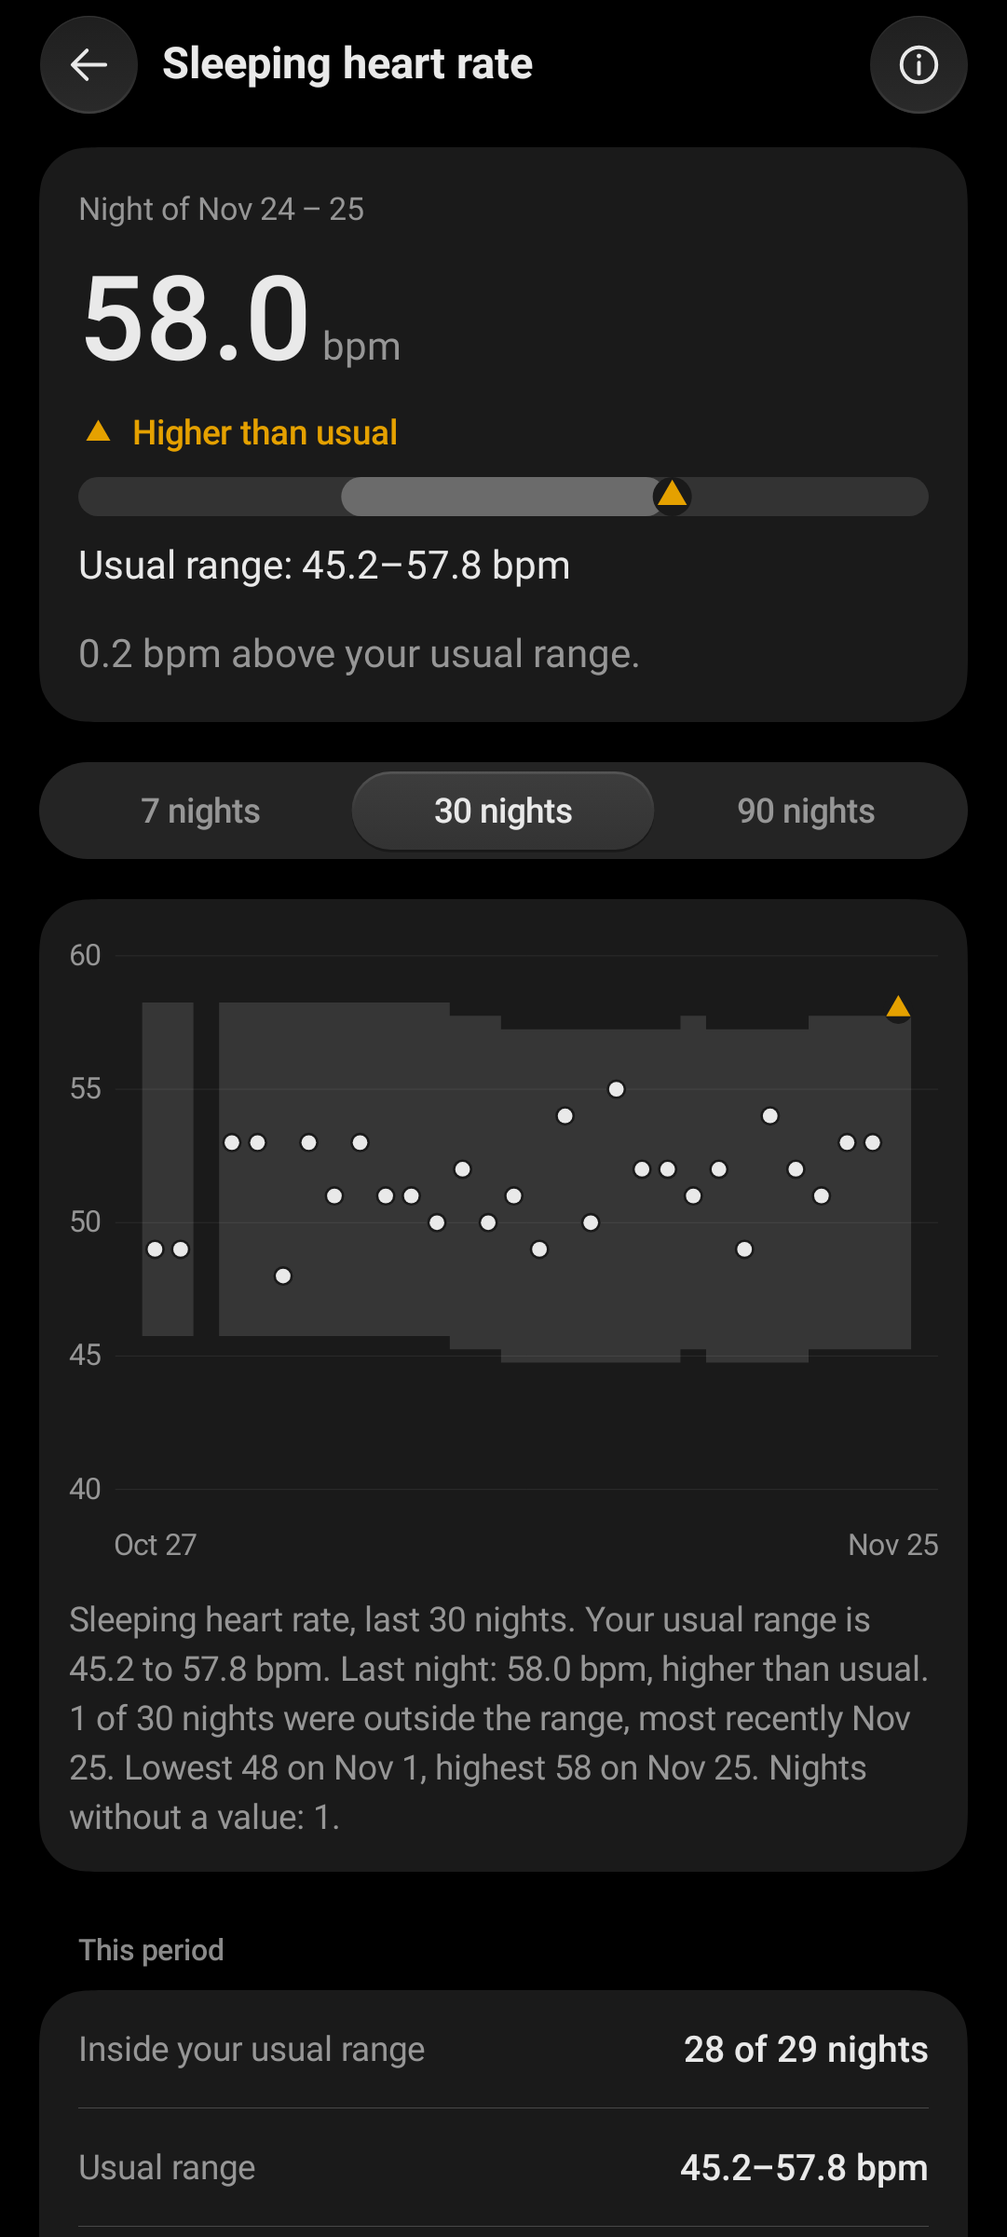
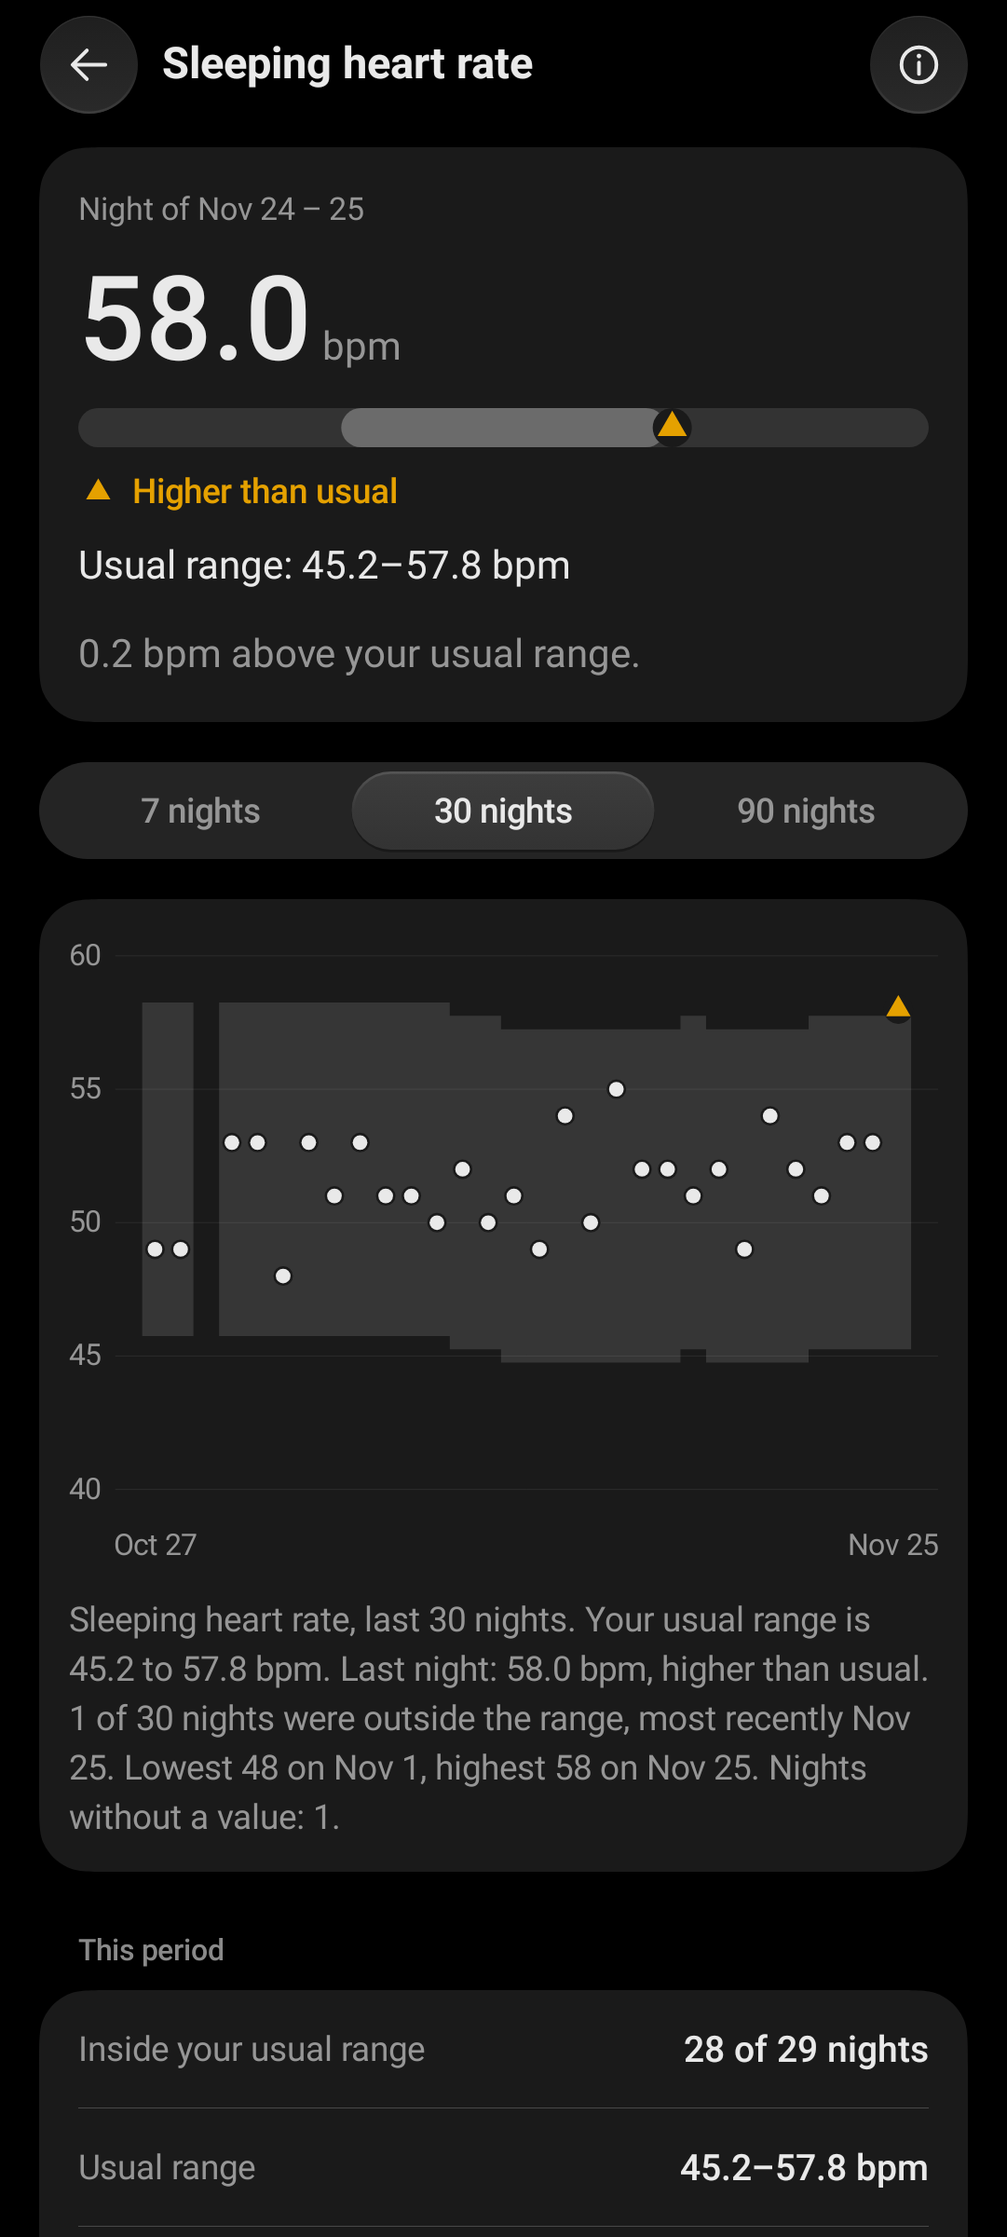
fix(ui): review round 3 — ColorOS 17 canon
History rows show per-metric shapes only on nights where something moved
(moved amber, the rest grey); new color.status.movedGlyph (light #B07000)
for moved shapes so light amber no longer reads brown; metric tiles stack
status and usual range; Metric detail header follows the tile order; theme
choice row without dividers and with grey unselected labels; onboarding on
the plain neutral background; calendar legend merges shared shapes; metric
screenshot test uses the detail layout and stitches past the top-bar fade.
README screenshots re-recorded; review.md round 3.

Claude-Session: https://claude.ai/code/session_014ey52HvVuqMhp36yrHWrrg

Changed region(s): [[0.0611, 0.1562, 0.9158, 0.2499]]

diff --git a/app/src/main/kotlin/io/github/alien2003/nightbaseline/ui/components/Lists.kt b/app/src/main/kotlin/io/github/alien2003/nightbaseline/ui/components/Lists.kt
@@ -45,6 +45,7 @@ import io.github.alien2003.nightbaseline.ui.material.ForcedInteraction
 import io.github.alien2003.nightbaseline.ui.material.nbClickable
 import io.github.alien2003.nightbaseline.ui.material.solidCard
 import io.github.alien2003.nightbaseline.ui.model.NightUi
+import io.github.alien2003.nightbaseline.ui.model.StatusTone
 import io.github.alien2003.nightbaseline.ui.model.rememberUiText
 import io.github.alien2003.nightbaseline.ui.theme.NbControlDimens
 import io.github.alien2003.nightbaseline.ui.theme.NbControlType
@@ -104,10 +105,11 @@ enum class GroupPosition {
 
 /**
  * A History feed row (`screens.md` 4, `coloros-conformance.md` L11): one row of a month's grouped 20 dp card (see
- * [position]): a 24 dp night glyph, night label (16/500) and status summary, and a wrapping set of small per-metric
- * glyphs (2..6) at the end; >= 48 dp, 10 dp vertical padding; hairline above inset 56 dp / 16 dp; the selected row on
- * a neutral fill (never a tonal colour). Rows in a grouped card light up on press but do not shrink. One merged
- * TalkBack node ("{night label}: {status}. {k} moved: {metrics}."), role button.
+ * [position]): a 24 dp night glyph, night label (16/500) and status summary, and, on nights where something moved,
+ * a wrapping set of small per-metric glyphs (2..6) at the end (moved in amber, the rest grey); >= 48 dp, 10 dp
+ * vertical padding; hairline above inset 56 dp / 16 dp; the selected row on a neutral fill (never a tonal colour).
+ * Rows in a grouped card light up on press but do not shrink. One merged TalkBack node ("{night label}: {status}.
+ * {k} moved: {metrics}."), role button.
  */
 @OptIn(ExperimentalLayoutApi::class)
 @Composable
@@ -155,14 +157,19 @@ fun NightRow(
                 NbText(label, style = NbControlType.itemTitle, color = controls.title)
                 NbText(status, style = NbControlType.summary, color = controls.summary)
             }
-            FlowRow(
-                Modifier.widthIn(max = 72.dp).clearAndSetSemantics {},
-                maxItemsInEachRow = METRIC_GLYPHS_PER_ROW,
-                horizontalArrangement = Arrangement.spacedBy(NbSpace.s1),
-                verticalArrangement = Arrangement.spacedBy(NbSpace.s1),
-            ) {
-                night.metrics.filter { it.state.compared || it.state.moved }.forEach { metric ->
-                    MetricGlyphIcon(metric.state.glyph, colors.tone(metric.state.tone), size = 12.dp)
+            // Per-metric shapes only on nights where something moved: which ones moved (amber triangles) among the
+            // compared ones (calm grey dots). "All usual" rows stay clean; the summary already says it.
+            if (night.movedMetrics.isNotEmpty()) {
+                FlowRow(
+                    Modifier.widthIn(max = 72.dp).clearAndSetSemantics {},
+                    maxItemsInEachRow = METRIC_GLYPHS_PER_ROW,
+                    horizontalArrangement = Arrangement.spacedBy(NbSpace.s1),
+                    verticalArrangement = Arrangement.spacedBy(NbSpace.s1),
+                ) {
+                    night.metrics.filter { it.state.compared || it.state.moved }.forEach { metric ->
+                        val tone = if (metric.state.moved) metric.state.tone else StatusTone.Neutral
+                        MetricGlyphIcon(metric.state.glyph, colors.tone(tone), size = 12.dp)
+                    }
                 }
             }
         }

diff --git a/app/src/main/kotlin/io/github/alien2003/nightbaseline/ui/components/Controls.kt b/app/src/main/kotlin/io/github/alien2003/nightbaseline/ui/components/Controls.kt
@@ -16,15 +16,12 @@ import androidx.compose.foundation.layout.Arrangement
 import androidx.compose.foundation.layout.Box
 import androidx.compose.foundation.layout.BoxWithConstraints
 import androidx.compose.foundation.layout.Column
-import androidx.compose.foundation.layout.IntrinsicSize
 import androidx.compose.foundation.layout.Row
-import androidx.compose.foundation.layout.fillMaxHeight
 import androidx.compose.foundation.layout.fillMaxWidth
 import androidx.compose.foundation.layout.height
 import androidx.compose.foundation.layout.padding
 import androidx.compose.foundation.layout.size
 import androidx.compose.foundation.layout.sizeIn
-import androidx.compose.foundation.layout.width
 import androidx.compose.foundation.selection.selectableGroup
 import androidx.compose.runtime.Composable
 import androidx.compose.runtime.LaunchedEffect
@@ -385,7 +382,7 @@ fun NbChipTab(
 
 /**
  * A ColorOS choice row (`coloros-conformance.md` L9, Settings > Display "Light mode / Dark mode"): equal columns,
- * each an illustration ([art], decorative), a 14 sp label and an [NbRadio] below it, split by 1 px vertical hairlines;
+ * each an illustration ([art], decorative), a 14 sp label and an [NbRadio] below it, without dividers (as measured);
  * the selected label is the accent at 500 (with the filled radio, never colour alone). Each column is one >= 48 dp
  * radio target. When the labels do not fit (large font, narrow window) it falls back to trailing-radio rows.
  */
@@ -409,18 +406,9 @@ fun NbChoiceRow(
             }
             return@BoxWithConstraints
         }
-        val hairline = with(density) { 1f.toDp() }
-        Row(Modifier.fillMaxWidth().height(IntrinsicSize.Min).selectableGroup()) {
+        // No vertical hairlines between the columns: Settings > Display shows the choices on one open card.
+        Row(Modifier.fillMaxWidth().selectableGroup()) {
             labels.forEachIndexed { i, label ->
-                if (i > 0) {
-                    Box(
-                        Modifier
-                            .padding(vertical = NbControlDimens.rowPaddingHorizontal)
-                            .width(hairline)
-                            .fillMaxHeight()
-                            .background(controls.hairline),
-                    )
-                }
                 val isSelected = i == selected
                 Column(
                     Modifier
@@ -436,7 +424,8 @@ fun NbChoiceRow(
                     NbText(
                         label,
                         style = NbControlType.label.copy(fontWeight = if (isSelected) FontWeight.Medium else FontWeight.Normal),
-                        color = if (isSelected) controls.accentText else controls.title,
+                        // Unselected labels are grey as in Settings > Display; the selected one is the accent (with the radio).
+                        color = if (isSelected) controls.accentText else controls.summary,
                         textAlign = TextAlign.Center,
                     )
                     NbRadio(isSelected)

diff --git a/app/src/testDebug/kotlin/io/github/alien2003/nightbaseline/screenshots/MetricScreenshotsTest.kt b/app/src/testDebug/kotlin/io/github/alien2003/nightbaseline/screenshots/MetricScreenshotsTest.kt
@@ -33,6 +33,7 @@ import io.github.alien2003.nightbaseline.ui.layout.FoldInfo
 import io.github.alien2003.nightbaseline.ui.layout.LayoutInputs
 import io.github.alien2003.nightbaseline.ui.layout.LayoutMode
 import io.github.alien2003.nightbaseline.ui.layout.LayoutSpec
+import io.github.alien2003.nightbaseline.ui.layout.NavigationKind
 import io.github.alien2003.nightbaseline.ui.layout.resolveLayout
 import io.github.alien2003.nightbaseline.ui.metric.METRIC_TOP_BAR_TAG
 import io.github.alien2003.nightbaseline.ui.metric.MetricDetailSamples
@@ -135,7 +136,10 @@ class MetricScreenshotsTest(
                     verticalFold = device.verticalFold,
                     horizontalFold = device.horizontalFold,
                 ),
-            )
+            ).let {
+                // Metric detail is a pushed route: on phones the app hides the bar there (AppNavHost forDetail).
+                if (it.navigation == NavigationKind.Bar) it.copy(navigation = NavigationKind.None) else it
+            }
         val samples = if (device.id == "phone") MetricSample.entries else KEY_SAMPLES
         for (dark in listOf(false, true)) {
             val theme = if (dark) "dark" else "light"
@@ -221,7 +225,8 @@ class MetricScreenshotsTest(
                 .firstOrNull()
                 ?.boundsInRoot
                 ?.bottom
-                ?.let { (it + 2 * device.dpi / 160f).roundToInt() } ?: 0
+                // Below the top bar's darkening / blur fade, so a slice never repeats faded content over the next.
+                ?.let { (it + TOP_FADE_DP * device.dpi / 160f).roundToInt() } ?: 0
         val px = device.dpi / 160f
         val history = navHistoryTab()
         // A floating bar sits at the bottom; otherwise the History tab belongs to the rail at the start edge.
@@ -358,6 +363,7 @@ class MetricScreenshotsTest(
         private const val PNG_QUALITY = 100
         private const val NAV_HISTORY = "History"
         private const val BAR_ZONE_DP = 160
+        private const val TOP_FADE_DP = 28
         private const val SCROLLED_DP = 90
         private val PLACEHOLDER = Regex("""%(\d+\$)?[-#+0,(]*\d*(\.\d+)?[a-zA-Z]""")
 

diff --git a/app/src/main/kotlin/io/github/alien2003/nightbaseline/ui/onboarding/OnboardingScreen.kt b/app/src/main/kotlin/io/github/alien2003/nightbaseline/ui/onboarding/OnboardingScreen.kt
@@ -26,7 +26,6 @@ import androidx.compose.foundation.verticalScroll
 import androidx.compose.runtime.Composable
 import androidx.compose.ui.Alignment
 import androidx.compose.ui.Modifier
-import androidx.compose.ui.graphics.Brush
 import androidx.compose.ui.platform.LocalDensity
 import androidx.compose.ui.semantics.heading
 import androidx.compose.ui.semantics.semantics
@@ -45,13 +44,13 @@ import io.github.alien2003.nightbaseline.ui.theme.controls
 private const val ILLUSTRATION_MAX_FONT = 1.5f
 private const val ILLUSTRATION_MIN_HEIGHT = 640f
 private const val START_COLUMN_SHARE = 0.4f
-private const val GRADIENT_ALPHA = 0.10f
 private val TextColumnMax = 480.dp
 private val CardMax = 840.dp
 
 /**
  * The first run (`screens.md` 7.5, `states.md` 7.3, `layouts.md` 5.5): full screen, outside the shell (no navigation,
- * no glass), solid background with a quiet static gradient. Stateless: [state] in, [actions] out. Per mode: Compact
+ * no glass), the plain neutral window background of every other screen (no tinted wash). Stateless: [state] in,
+ * [actions] out. Per mode: Compact
  * with the primary button pinned at the bottom; CompactShort and Glance without illustration, everything scrolls;
  * Medium and WideShort two columns (start 40 %: illustration and step indicator, or the title in large type in
  * WideShort; end: text and actions, max 480 dp); Expanded and up the same two columns in a centred card (max 840 dp);
@@ -73,7 +72,6 @@ fun OnboardingScreen(
         modifier
             .fillMaxSize()
             .background(colors.background)
-            .background(Brush.verticalGradient(listOf(NbTheme.controls.accent.copy(alpha = GRADIENT_ALPHA), colors.background)))
             .windowInsetsPadding(WindowInsets.safeDrawing),
     ) {
         when (layout.mode) {

diff --git a/app/src/main/kotlin/io/github/alien2003/nightbaseline/ui/theme/NbColors.kt b/app/src/main/kotlin/io/github/alien2003/nightbaseline/ui/theme/NbColors.kt
@@ -62,6 +62,8 @@ data class NbColors(
     val statusWithin: Color,
     /** `color.status.moved` (also `status.above` and `status.below`). */
     val statusMoved: Color,
+    /** `color.status.movedGlyph`: moved shapes (triangles, night glyph, chart and band markers); 3:1 graphics. */
+    val statusMovedGlyph: Color,
     /** `color.status.neutral` (also `status.learning` and `status.missing`). */
     val statusNeutral: Color,
     /** `color.band.fill`: solid usual-range segment on the track. */
@@ -180,6 +182,7 @@ val LightNbColors: NbColors =
         glowNeutral = tint(0xFFFFFF, 30f),
         statusWithin = Color(0xFF19762A),
         statusMoved = Color(0xFF8F5A00),
+        statusMovedGlyph = Color(0xFFB07000),
         statusNeutral = Color(0xFF666666),
         bandFill = Color(0xFF8C8C8C),
         markerWithin = Color(0xFFFFFFFF),
@@ -236,6 +239,7 @@ val DarkNbColors: NbColors =
         glowNeutral = tint(0xFFFFFF, 13.5f),
         statusWithin = Color(0xFF24B232),
         statusMoved = Color(0xFFE5A100),
+        statusMovedGlyph = Color(0xFFE5A100),
         statusNeutral = Color(0xFF969696),
         bandFill = Color(0xFF6B6B6B),
         markerWithin = Color(0xFFFFFFFF),
@@ -300,6 +304,7 @@ private val tokenAccessors: Map<String, (NbColors) -> Color> =
         "color.glow.neutral" to { it.glowNeutral },
         "color.status.within" to { it.statusWithin },
         "color.status.moved" to { it.statusMoved },
+        "color.status.movedGlyph" to { it.statusMovedGlyph },
         "color.status.above" to { it.statusAbove },
         "color.status.below" to { it.statusBelow },
         "color.status.neutral" to { it.statusNeutral },

diff --git a/app/src/main/kotlin/io/github/alien2003/nightbaseline/ui/theme/Contrast.kt b/app/src/main/kotlin/io/github/alien2003/nightbaseline/ui/theme/Contrast.kt
@@ -190,8 +190,10 @@ val NbContrastPairs: List<ContrastPair> =
         both("graphic.band.fill.surface1", "color.band.fill", "color.surface.1", 3.0),
         both("graphic.marker.within.fill", "color.marker.within", "color.band.fill", 3.0),
         both("graphic.marker.within.surface1", "color.status.within", "color.surface.1", 3.0),
-        both("graphic.marker.moved.track", "color.status.moved", "color.control.track", 3.0),
-        both("graphic.marker.moved.surface1", "color.status.moved", "color.surface.1", 3.0),
+        both("graphic.marker.moved.track", "color.status.movedGlyph", "color.control.track", 3.0),
+        both("graphic.marker.moved.surface1", "color.status.movedGlyph", "color.surface.1", 3.0),
+        both("graphic.marker.moved.surface3", "color.status.movedGlyph", "color.surface.3", 3.0),
+        both("graphic.marker.moved.background", "color.status.movedGlyph", "color.background", 3.0),
         both("graphic.marker.neutral.track", "color.status.neutral", "color.control.track", 3.0),
         both("graphic.chart.point.surface1", "color.chart.point", "color.surface.1", 3.0),
         both("graphic.learningOutline.surface1", "color.band.learningOutline", "color.surface.1", 3.0),

diff --git a/app/src/main/kotlin/io/github/alien2003/nightbaseline/ui/metric/MetricBlocks.kt b/app/src/main/kotlin/io/github/alien2003/nightbaseline/ui/metric/MetricBlocks.kt
@@ -138,10 +138,11 @@ internal fun HeaderCard(
         ) {
             NbText(text.nightLabelOf(state), style = NbTheme.dataType.statusCalm, color = colors.textSecondary)
             if (metric.state != MetricState.NotProvided && metric.state != MetricState.AccessOff) HeaderValue(metric)
-            StatusLabel(text.status(metric, state.source), metric.state.glyph, metric.state.tone)
+            // Same order as the metric tiles on Home and Night detail: value, band, status, range (review round 3).
             if (metric.range != null && metric.value != null) {
                 RangeBand(metric.range, metric.value, metric.state)
             }
+            StatusLabel(text.status(metric, state.source), metric.state.glyph, metric.state.tone)
             text.usualRange(metric)?.takeIf { !state.learning }?.let {
                 NbText(it, style = NbTheme.typography.body, color = colors.textPrimary)
             }

diff --git a/app/src/main/kotlin/io/github/alien2003/nightbaseline/ui/components/Cards.kt b/app/src/main/kotlin/io/github/alien2003/nightbaseline/ui/components/Cards.kt
@@ -203,11 +203,9 @@ fun MetricRangeTile(
             if (metric.state != MetricState.AccessOff) {
                 RangeBand(metric.range, metric.value, metric.state)
             }
-            FlowRow(
-                horizontalArrangement = Arrangement.spacedBy(NbSpace.s4),
-                verticalArrangement = Arrangement.spacedBy(NbSpace.s1),
-                itemVerticalAlignment = Alignment.CenterVertically,
-            ) {
+            // Status and usual range always stacked: side by side they wrapped differently from tile to tile, so
+            // neighbouring cards had different rhythms (review round 3).
+            Column(verticalArrangement = Arrangement.spacedBy(NbSpace.s1)) {
                 StatusLabel(text.status(metric, source), metric.state.glyph, metric.state.tone)
                 metric.range?.takeIf { metric.state != MetricState.Learning }?.let { range ->
                     NbText(

diff --git a/app/src/main/kotlin/io/github/alien2003/nightbaseline/ui/history/HistoryControls.kt b/app/src/main/kotlin/io/github/alien2003/nightbaseline/ui/history/HistoryControls.kt
@@ -194,7 +194,10 @@ fun HistoryLegend(
             horizontalArrangement = Arrangement.spacedBy(NbSpace.s5),
             verticalArrangement = Arrangement.spacedBy(NbSpace.s3),
         ) {
-            entries.forEach { (state, label) ->
+            // States that share a shape (no data, too few readings) share one entry, so no shape appears twice.
+            entries.groupBy { it.first.glyph }.values.forEach { group ->
+                val state = group.first().first
+                val label = group.joinToString(" / ") { it.second }
                 Row(verticalAlignment = Alignment.CenterVertically, horizontalArrangement = Arrangement.spacedBy(NbSpace.s3)) {
                     NightGlyphIcon(state.glyph, colors.tone(state.tone), size = LEGEND_GLYPH)
                     NbText(label, style = NbTheme.typography.bodySmall, color = colors.textSecondary)

diff --git a/app/src/main/kotlin/io/github/alien2003/nightbaseline/ui/components/StatusGlyphs.kt b/app/src/main/kotlin/io/github/alien2003/nightbaseline/ui/components/StatusGlyphs.kt
@@ -38,11 +38,14 @@ import kotlin.math.PI
 import kotlin.math.cos
 import kotlin.math.sqrt
 
-/** `color.status.*` of [tone]. */
+/**
+ * Colour of the status *shape* of [tone] (glyphs, markers): `color.status.*`, with `status.movedGlyph` for moved (in
+ * light the brighter amber that passes 3:1 for graphics; moved text uses `status.moved`, see [StatusLabel]).
+ */
 fun NbColors.tone(tone: StatusTone): Color =
     when (tone) {
         StatusTone.Within -> statusWithin
-        StatusTone.Moved -> statusMoved
+        StatusTone.Moved -> statusMovedGlyph
         StatusTone.Neutral -> statusNeutral
         StatusTone.Info -> statusInfo
     }

diff --git a/app/src/main/kotlin/io/github/alien2003/nightbaseline/ui/onboarding/StepIllustration.kt b/app/src/main/kotlin/io/github/alien2003/nightbaseline/ui/onboarding/StepIllustration.kt
@@ -96,7 +96,7 @@ internal fun StepIllustration(
                 val center = (bandTop + bandBottom) / 2
                 val outside = kind == Illustration.Outside && i == offsets.lastIndex
                 if (outside) {
-                    drawPath(triangle(Offset(x, size.height * 0.14f), 14.dp.toPx(), up = true), colors.statusMoved)
+                    drawPath(triangle(Offset(x, size.height * 0.14f), 14.dp.toPx(), up = true), colors.statusMovedGlyph)
                 } else if (kind == Illustration.Learning) {
                     drawCircle(
                         colors.chartPoint,

diff --git a/app/src/main/kotlin/io/github/alien2003/nightbaseline/ui/components/Chart.kt b/app/src/main/kotlin/io/github/alien2003/nightbaseline/ui/components/Chart.kt
@@ -905,7 +905,7 @@ private fun DrawScope.drawPoints(
             MetricState.Higher, MetricState.Lower -> {
                 val side = triangleSide * scale
                 drawCircle(colors.markerHalo, radius = side * 0.5f + halo, center = center)
-                drawPath(triangle(center, side, up = p.state == MetricState.Higher), colors.statusMoved)
+                drawPath(triangle(center, side, up = p.state == MetricState.Higher), colors.statusMovedGlyph)
             }
 
             MetricState.Within, MetricState.SideIgnoredHigher, MetricState.SideIgnoredLower -> {
